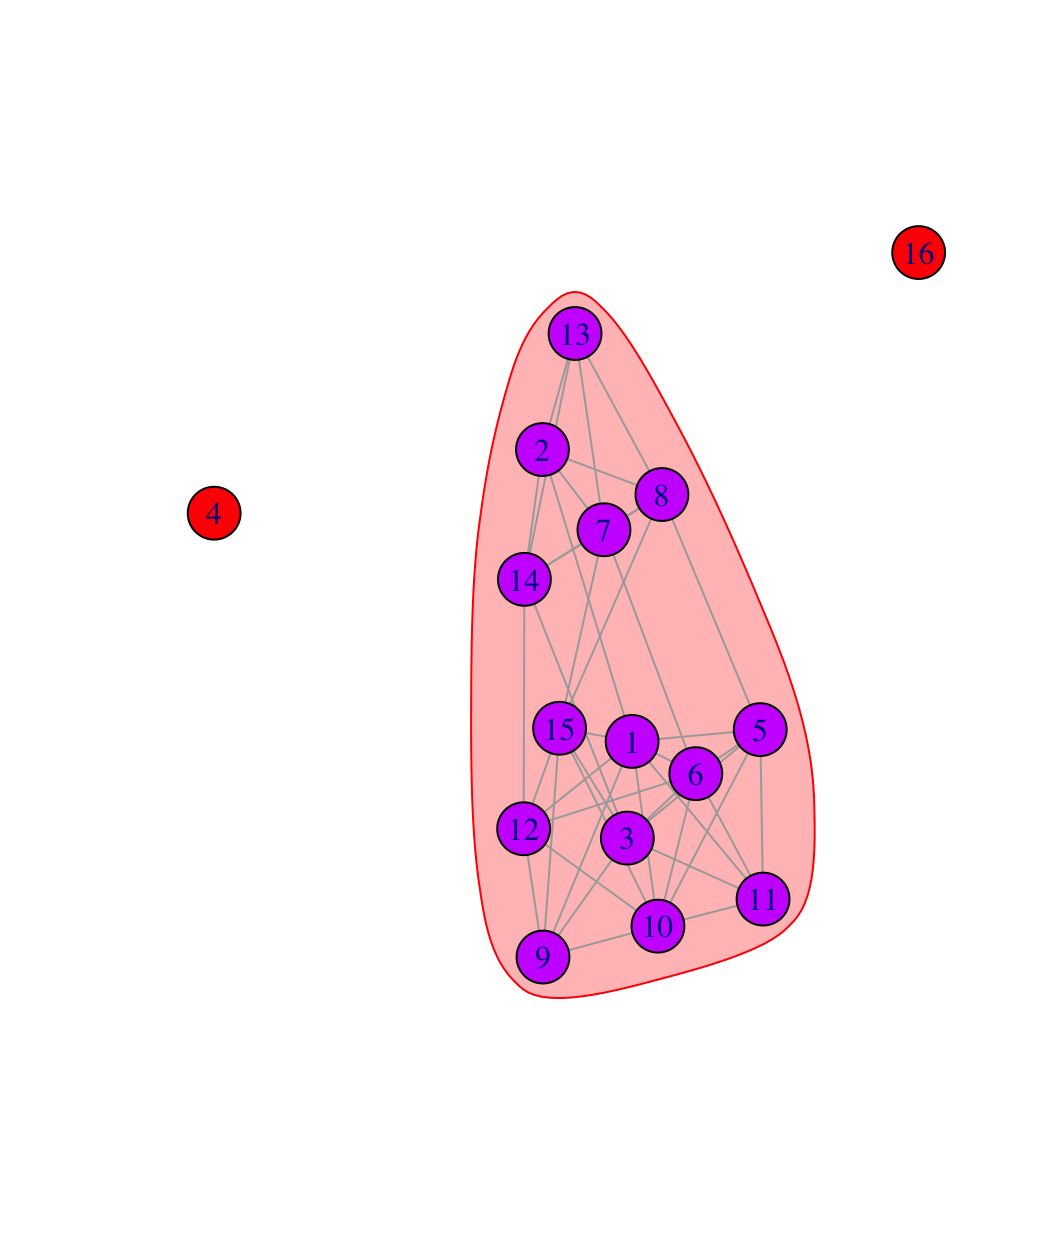
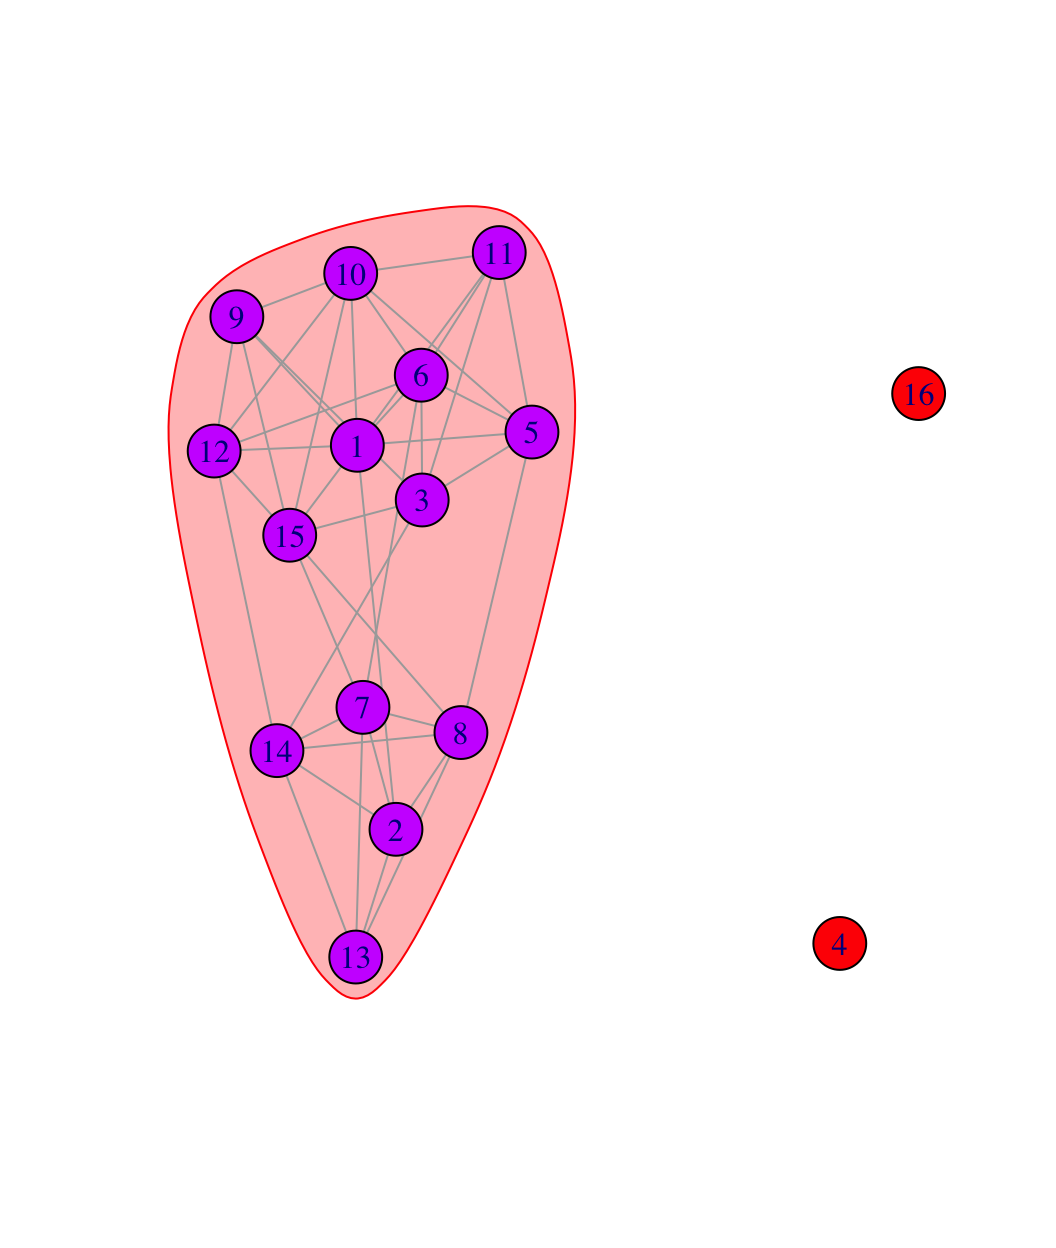
20250925

Changed region(s): [[0.1562, 0.1562, 0.8438, 0.8125], [0.8438, 0.2812, 0.9062, 0.3438], [0.8438, 0.1562, 0.9062, 0.25]]

diff --git a/docs/W5_presentation.html b/docs/W5_presentation.html
@@ -308,10 +308,10 @@
 <span id="cb8-4"><a></a>                                       <span class="at">vertices =</span> class182_attributes) </span>
 <span id="cb8-5"><a></a>net182_friend </span></code></pre></div><button title="Copy to Clipboard" class="code-copy-button"><i class="bi"></i></button></div>
 <div class="cell-output cell-output-stdout">
-<pre><code>IGRAPH 4bf3ac5 DN-- 16 62 -- 
+<pre><code>IGRAPH 4036087 DN-- 16 62 -- 
 + attr: name (v/c), race (v/c), grade (v/n), gender (v/c), friend_tie
 | (e/n)
-+ edges from 4bf3ac5 (vertex names):
++ edges from 4036087 (vertex names):
  [1] 2 -&gt;1  2 -&gt;7  2 -&gt;8  2 -&gt;13 2 -&gt;14 3 -&gt;5  3 -&gt;6  3 -&gt;11 3 -&gt;14 3 -&gt;15
 [11] 5 -&gt;1  5 -&gt;3  5 -&gt;6  5 -&gt;8  5 -&gt;10 5 -&gt;11 6 -&gt;1  6 -&gt;3  6 -&gt;5  6 -&gt;7 
 [21] 6 -&gt;10 6 -&gt;11 6 -&gt;12 7 -&gt;2  7 -&gt;8  7 -&gt;13 7 -&gt;14 8 -&gt;2  8 -&gt;5  8 -&gt;7 
@@ -432,9 +432,9 @@ $no
 <div class="code-copy-outer-scaffold"><div class="sourceCode cell-code" id="cb18"><pre class="sourceCode numberSource r number-lines code-with-copy"><code class="sourceCode r"><span id="cb18-1"><a></a>net182_friend_und <span class="ot">&lt;-</span> <span class="fu">as_undirected</span>(net182_friend, <span class="at">mode =</span> <span class="st">"collapse"</span>) </span>
 <span id="cb18-2"><a></a>net182_friend_und</span></code></pre></div><button title="Copy to Clipboard" class="code-copy-button"><i class="bi"></i></button></div>
 <div class="cell-output cell-output-stdout">
-<pre><code>IGRAPH 6d919ed UN-- 16 42 -- 
+<pre><code>IGRAPH e5a949b UN-- 16 42 -- 
 + attr: name (v/c), race (v/c), grade (v/n), gender (v/c)
-+ edges from 6d919ed (vertex names):
++ edges from e5a949b (vertex names):
  [1] 1 --2  1 --5  3 --5  1 --6  3 --6  5 --6  2 --7  6 --7  2 --8  5 --8 
 [11] 7 --8  1 --9  3 --9  1 --10 5 --10 6 --10 9 --10 1 --11 3 --11 5 --11
 [21] 6 --11 10--11 1 --12 6 --12 9 --12 10--12 2 --13 7 --13 8 --13 2 --14
@@ -519,12 +519,14 @@ B-1      c 0, n 16
 <ul>
 <li>Detects communities through a series of short random walks
 <ul>
+<li>Nodes encountered on any given random walk are more likely to be within a community than not</li>
 <li>The algorithm initially treats all nodes as communities of their own</li>
-<li>then merges them into larger communities, and these into still larger communities, and so on.</li>
+<li>Merges them into larger communities, and these into still larger communities, and so on.</li>
+<li>Unlike Cohesive Blocking, Walktrap considers cohesion of communities and how separated they are from other communities</li>
 </ul></li>
 </ul>
 <div class="cell">
-<div class="code-copy-outer-scaffold"><div class="sourceCode cell-code" id="cb25"><pre class="sourceCode numberSource r number-lines code-with-copy"><code class="sourceCode r"><span id="cb25-1"><a></a><span class="co"># steps :number of steps in random walk</span></span>
+<div class="code-copy-outer-scaffold"><div class="sourceCode cell-code" id="cb25"><pre class="sourceCode numberSource r number-lines code-with-copy"><code class="sourceCode r"><span id="cb25-1"><a></a><span class="co"># steps :length of random walk (4 or 5 is recommended)</span></span>
 <span id="cb25-2"><a></a><span class="co"># membership : T/F, should membership be calculated based on highest modularity score? T by default</span></span>
 <span id="cb25-3"><a></a>friend_comm_wt4 <span class="ot">&lt;-</span> <span class="fu">cluster_walktrap</span>(<span class="at">graph =</span> net182_friend_und, <span class="at">steps =</span> <span class="dv">4</span>, </span>
 <span id="cb25-4"><a></a>                                    <span class="at">membership =</span> T)</span></code></pre></div><button title="Copy to Clipboard" class="code-copy-button"><i class="bi"></i></button></div>
@@ -533,7 +535,9 @@ B-1      c 0, n 16
 <section id="walktrap-1" class="slide level2">
 <h2>2) Walktrap</h2>
 <div class="cell">
-<div class="code-copy-outer-scaffold"><div class="sourceCode cell-code" id="cb26"><pre class="sourceCode numberSource r number-lines code-with-copy"><code class="sourceCode r"><span id="cb26-1"><a></a>friend_comm_wt4</span></code></pre></div><button title="Copy to Clipboard" class="code-copy-button"><i class="bi"></i></button></div>
+<div class="code-copy-outer-scaffold"><div class="sourceCode cell-code" id="cb26"><pre class="sourceCode numberSource r number-lines code-with-copy"><code class="sourceCode r"><span id="cb26-1"><a></a><span class="co"># groups: 4 → 4 community detected in the network</span></span>
+<span id="cb26-2"><a></a><span class="co"># mod: 0.27 → value of modularity </span></span>
+<span id="cb26-3"><a></a><span class="fu">print</span>(friend_comm_wt4, <span class="at">all =</span> <span class="cn">TRUE</span>)</span></code></pre></div><button title="Copy to Clipboard" class="code-copy-button"><i class="bi"></i></button></div>
 <div class="cell-output cell-output-stdout">
 <pre><code>IGRAPH clustering walktrap, groups: 4, mod: 0.27
 + groups:
@@ -553,90 +557,68 @@ B-1      c 0, n 16
 </section>
 <section id="walktrap-2" class="slide level2">
 <h2>2) Walktrap</h2>
-<p>Now let’s get the membership of each node as well the modularity score based on 4 our step solution.</p>
+<p>What would happen if we used 3 steps?</p>
 <div class="cell">
-<div class="code-copy-outer-scaffold"><div class="sourceCode cell-code" id="cb28"><pre class="sourceCode numberSource r number-lines code-with-copy"><code class="sourceCode r"><span id="cb28-1"><a></a>mems_wt_4step <span class="ot">&lt;-</span> <span class="fu">membership</span>(friend_comm_wt4)</span>
-<span id="cb28-2"><a></a>mems_wt_4step</span></code></pre></div><button title="Copy to Clipboard" class="code-copy-button"><i class="bi"></i></button></div>
+<div class="code-copy-outer-scaffold"><div class="sourceCode cell-code" id="cb28"><pre class="sourceCode numberSource r number-lines code-with-copy"><code class="sourceCode r"><span id="cb28-1"><a></a><span class="co"># the modularity is slightly higher when we use 3 steps</span></span>
+<span id="cb28-2"><a></a>friend_comm_wt3 <span class="ot">&lt;-</span> <span class="fu">cluster_walktrap</span>(<span class="at">graph =</span> net182_friend_und, </span>
+<span id="cb28-3"><a></a>                                    <span class="at">steps =</span> <span class="dv">3</span>, <span class="at">membership =</span> T)</span>
+<span id="cb28-4"><a></a>friend_comm_wt3</span></code></pre></div><button title="Copy to Clipboard" class="code-copy-button"><i class="bi"></i></button></div>
 <div class="cell-output cell-output-stdout">
-<pre><code> 1  2  3  4  5  6  7  8  9 10 11 12 13 14 15 16 
- 2  1  2  3  2  2  1  1  2  2  2  2  1  1  2  4 </code></pre>
-</div>
-</div>
-<div class="cell">
-<div class="code-copy-outer-scaffold"><div class="sourceCode cell-code" id="cb30"><pre class="sourceCode numberSource r number-lines code-with-copy"><code class="sourceCode r"><span id="cb30-1"><a></a>mod_wt_4step <span class="ot">&lt;-</span> <span class="fu">modularity</span>(friend_comm_wt4)</span>
-<span id="cb30-2"><a></a>mod_wt_4step</span></code></pre></div><button title="Copy to Clipboard" class="code-copy-button"><i class="bi"></i></button></div>
-<div class="cell-output cell-output-stdout">
-<pre><code>[1] 0.2695578</code></pre>
+<pre><code>IGRAPH clustering walktrap, groups: 5, mod: 0.28
++ groups:
+  $`1`
+  [1] "2"  "7"  "8"  "13" "14"
+  
+  $`2`
+  [1] "1"  "9"  "10" "12" "15"
+  
+  $`3`
+  [1] "3"  "5"  "6"  "11"
+  
+  $`4`
+  + ... omitted several groups/vertices</code></pre>
 </div>
 </div>
 </section>
 <section id="walktrap-3" class="slide level2">
 <h2>2) Walktrap</h2>
-<p>What would happen if we used 3 steps?</p>
+<ul>
+<li>Compare the two partitions using the <code>table</code> function:</li>
+</ul>
 <div class="cell">
-<div class="code-copy-outer-scaffold"><div class="sourceCode cell-code" id="cb32"><pre class="sourceCode numberSource r number-lines code-with-copy"><code class="sourceCode r"><span id="cb32-1"><a></a>friend_comm_wt3 <span class="ot">&lt;-</span> <span class="fu">cluster_walktrap</span>(<span class="at">graph =</span> net182_friend_und, </span>
-<span id="cb32-2"><a></a>                                    <span class="at">steps =</span> <span class="dv">3</span>, <span class="at">membership =</span> T)</span>
-<span id="cb32-3"><a></a>mems_wt_3step <span class="ot">&lt;-</span> <span class="fu">membership</span>(friend_comm_wt3)</span>
-<span id="cb32-4"><a></a>mems_wt_3step</span></code></pre></div><button title="Copy to Clipboard" class="code-copy-button"><i class="bi"></i></button></div>
+<div class="code-copy-outer-scaffold"><div class="sourceCode cell-code" id="cb30"><pre class="sourceCode numberSource r number-lines code-with-copy"><code class="sourceCode r"><span id="cb30-1"><a></a><span class="co"># row : results for communities when step is 4 (4 community detected)</span></span>
+<span id="cb30-2"><a></a><span class="co"># col : results for communities when step is 3 (5 community detected)</span></span>
+<span id="cb30-3"><a></a><span class="fu">table</span>( <span class="fu">membership</span>(friend_comm_wt4),  <span class="fu">membership</span>(friend_comm_wt3))</span></code></pre></div><button title="Copy to Clipboard" class="code-copy-button"><i class="bi"></i></button></div>
 <div class="cell-output cell-output-stdout">
-<pre><code> 1  2  3  4  5  6  7  8  9 10 11 12 13 14 15 16 
- 2  1  3  4  3  3  1  1  2  2  3  2  1  1  2  5 </code></pre>
+<pre><code>   
+    1 2 3 4 5
+  1 5 0 0 0 0
+  2 0 5 4 0 0
+  3 0 0 0 1 0
+  4 0 0 0 0 1</code></pre>
 </div>
 </div>
 </section>
 <section id="walktrap-4" class="slide level2">
 <h2>2) Walktrap</h2>
-<div class="cell">
-<div class="code-copy-outer-scaffold"><div class="sourceCode cell-code" id="cb34"><pre class="sourceCode numberSource r number-lines code-with-copy"><code class="sourceCode r"><span id="cb34-1"><a></a>mod_wt_3step <span class="ot">&lt;-</span> <span class="fu">modularity</span>(friend_comm_wt3)</span>
-<span id="cb34-2"><a></a>mod_wt_3step</span></code></pre></div><button title="Copy to Clipboard" class="code-copy-button"><i class="bi"></i></button></div>
-<div class="cell-output cell-output-stdout">
-<pre><code>[1] 0.2797619</code></pre>
-</div>
-</div>
-</section>
-<section id="walktrap-5" class="slide level2">
-<h2>2) Walktrap</h2>
-<p>We can see that the modularity is slightly higher when we use 3 steps. We can compare the two partitions using the <code>table</code> function:</p>
-<div class="cell">
-<div class="code-copy-outer-scaffold"><div class="sourceCode cell-code" id="cb36"><pre class="sourceCode numberSource r number-lines code-with-copy"><code class="sourceCode r"><span id="cb36-1"><a></a><span class="fu">table</span>(mems_wt_4step, mems_wt_3step)</span></code></pre></div><button title="Copy to Clipboard" class="code-copy-button"><i class="bi"></i></button></div>
-<div class="cell-output cell-output-stdout">
-<pre><code>             mems_wt_3step
-mems_wt_4step 1 2 3 4 5
-            1 5 0 0 0 0
-            2 0 5 4 0 0
-            3 0 0 0 1 0
-            4 0 0 0 0 1</code></pre>
-</div>
-</div>
-</section>
-<section id="walktrap-6" class="slide level2">
-<h2>2) Walktrap</h2>
 <ul>
-<li>Let’s also plot the network based on the found communities, comparing the two partitions.</li>
+<li>Plot the network based on the found communities, comparing the two partitions.</li>
 <li>Color the nodes based on the communities found using the walktrap algorithm.</li>
 </ul>
 <div class="cell">
-<div class="code-copy-outer-scaffold"><div class="sourceCode cell-code" id="cb38"><pre class="sourceCode numberSource r number-lines code-with-copy"><code class="sourceCode r"><span id="cb38-1"><a></a><span class="fu">par</span>(<span class="at">mfrow =</span> <span class="fu">c</span>(<span class="dv">1</span>, <span class="dv">2</span>))</span>
-<span id="cb38-2"><a></a>layout <span class="ot">&lt;-</span> <span class="fu">layout.fruchterman.reingold</span>(net182_friend) </span>
-<span id="cb38-3"><a></a></span>
-<span id="cb38-4"><a></a><span class="fu">plot</span>(net182_friend_und, <span class="at">layout =</span> layout, <span class="co">#note the use of layout</span></span>
-<span id="cb38-5"><a></a>     <span class="at">vertex.color =</span> mems_wt_4step, <span class="at">edge.color =</span> <span class="st">"light gray"</span>, </span>
-<span id="cb38-6"><a></a>     <span class="at">vertex.size =</span> <span class="dv">20</span>, <span class="at">main =</span> <span class="st">"Walktrap: 4 Steps"</span>)</span>
-<span id="cb38-7"><a></a></span>
-<span id="cb38-8"><a></a><span class="fu">plot</span>(net182_friend_und, <span class="at">layout =</span> layout, <span class="co">#note the use of layout</span></span>
-<span id="cb38-9"><a></a>     <span class="at">vertex.color =</span> mems_wt_3step, <span class="at">edge.color =</span> <span class="st">"light gray"</span>, </span>
-<span id="cb38-10"><a></a>     <span class="at">vertex.size =</span> <span class="dv">20</span>, <span class="at">main =</span> <span class="st">"Walktrap: 3 Steps"</span>)</span></code></pre></div><button title="Copy to Clipboard" class="code-copy-button"><i class="bi"></i></button></div>
+<div class="code-copy-outer-scaffold"><div class="sourceCode cell-code" id="cb32"><pre class="sourceCode numberSource r number-lines code-with-copy"><code class="sourceCode r"><span id="cb32-1"><a></a><span class="fu">par</span>(<span class="at">mfrow =</span> <span class="fu">c</span>(<span class="dv">1</span>, <span class="dv">2</span>))</span>
+<span id="cb32-2"><a></a>layout <span class="ot">&lt;-</span> <span class="fu">layout_with_fr</span>(net182_friend) </span>
+<span id="cb32-3"><a></a></span>
+<span id="cb32-4"><a></a><span class="fu">plot</span>(net182_friend_und, <span class="at">layout =</span> layout, <span class="co">#note the use of layout</span></span>
+<span id="cb32-5"><a></a>     <span class="at">vertex.color =</span>  <span class="fu">membership</span>(friend_comm_wt4), <span class="at">edge.color =</span> <span class="st">"light gray"</span>, </span>
+<span id="cb32-6"><a></a>     <span class="at">vertex.size =</span> <span class="dv">20</span>, <span class="at">main =</span> <span class="st">"Walktrap: 4 Steps"</span>)</span>
+<span id="cb32-7"><a></a></span>
+<span id="cb32-8"><a></a><span class="fu">plot</span>(net182_friend_und, <span class="at">layout =</span> layout, <span class="co">#note the use of layout</span></span>
+<span id="cb32-9"><a></a>     <span class="at">vertex.color =</span>  <span class="fu">membership</span>(friend_comm_wt3), <span class="at">edge.color =</span> <span class="st">"light gray"</span>, </span>
+<span id="cb32-10"><a></a>     <span class="at">vertex.size =</span> <span class="dv">20</span>, <span class="at">main =</span> <span class="st">"Walktrap: 3 Steps"</span>)</span></code></pre></div><button title="Copy to Clipboard" class="code-copy-button"><i class="bi"></i></button></div>
 
 </div>
-<img data-src="W5_presentation_files/figure-revealjs/unnamed-chunk-22-1.png" width="672" class="r-stretch"></section>
-<section id="walktrap-7" class="slide level2">
-<h2>2) Walktrap</h2>
-<ul>
-<li>2 basic communities (2, 7, 8, 13, 14 and 1, 3, 5, 6, 9, 10, 11, 12, 15)</li>
-<li>one of those communities having their own internal division.</li>
-<li>Larger community is split in two: (3, 5, 6, 11) and (1, 9, 10, 12, 15)</li>
-</ul>
-</section>
+<img data-src="W5_presentation_files/figure-revealjs/unnamed-chunk-19-1.png" width="672" class="r-stretch"></section>
 <section id="done" class="slide level2">
 <h2>Done!</h2>
 <ul>
